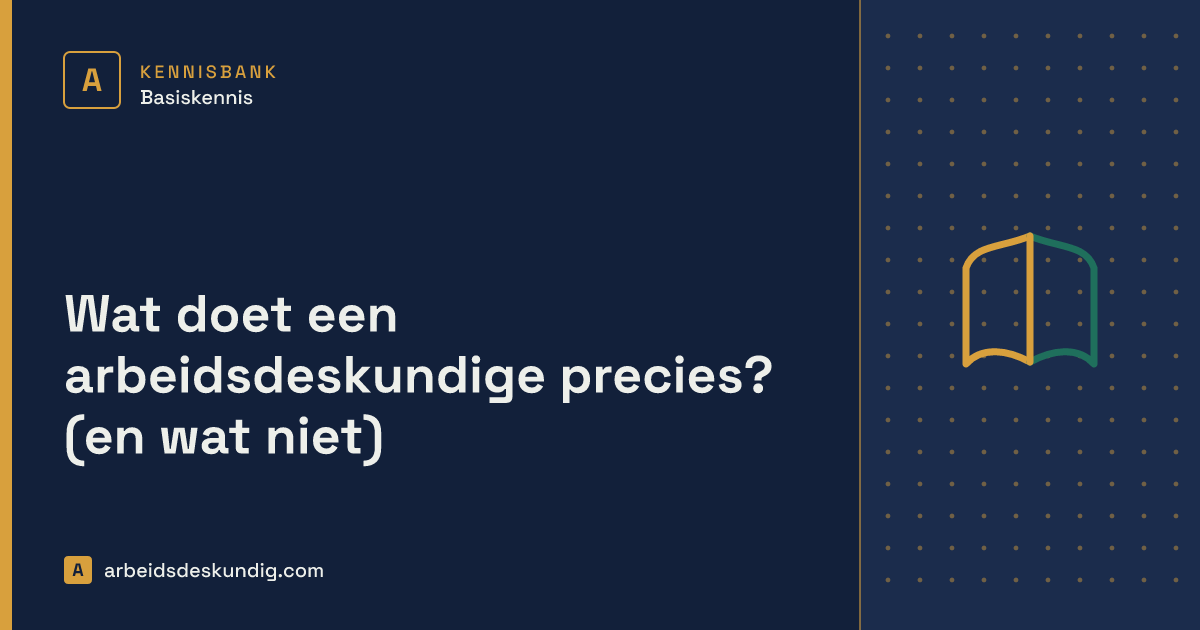
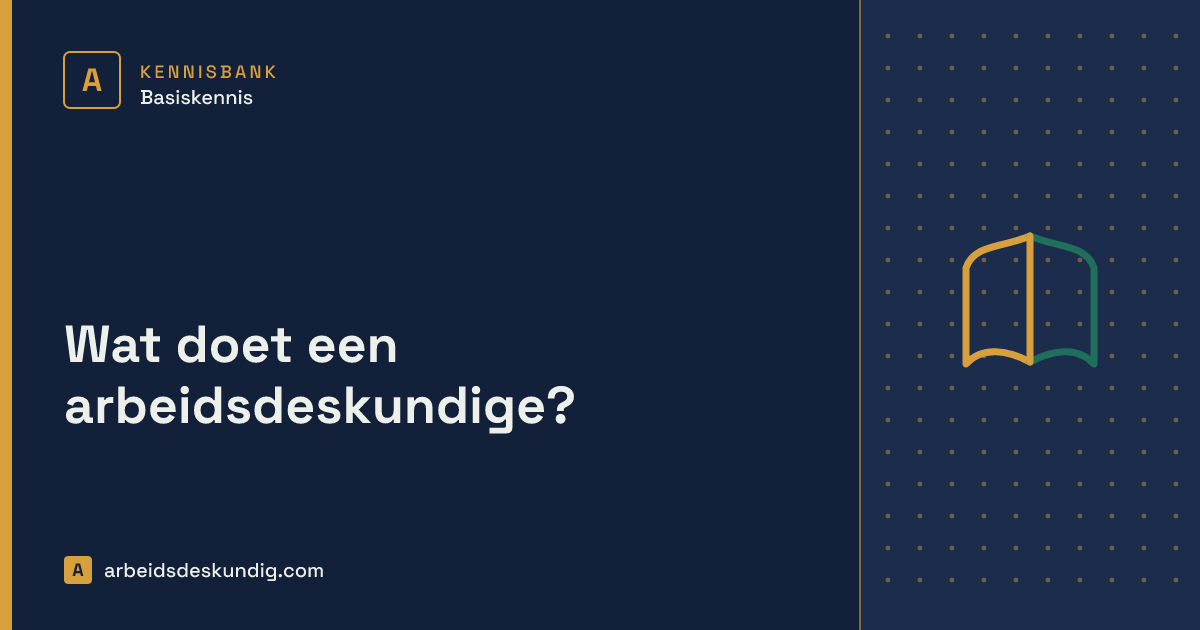
Sharpen what an arbeidsdeskundige does for first-time readers.
Lead with a citable answer, the report and spoor 1 or 2, the difference with UWV, and how the conversation goes, and set dateModified to the day of the edit.

Changed region(s): [[0.0308, 0.4524, 0.6475, 0.754]]

diff --git a/public/index.html b/public/index.html
@@ -3009,7 +3009,7 @@ try{ if(localStorage.getItem('cookie_consent') === null) document.body.classList
     { tag:"Casussen", title:"Casus: duidelijkheid over verantwoordelijkheid bij langdurig verzuim van een uitzendkracht", seoTitle:"Casus: verzuim van een uitzendkracht | Arbeidsdeskundig.com", slug:"casus-uitzend", read:"2 min", meta:"Praktijkcasus: hoe een arbeidsdeskundig onderzoek duidelijkheid bracht over verantwoordelijkheden bij een langdurig zieke uitzendkracht.", kernpunten:["Uitgangssituatie: onduidelijkheid tussen uitzendbureau en inlener","Oplossing: formele werkgever en inlener scherp uitgevraagd","Resultaat: duidelijk re-integratieplan zonder discussie"] },
     { tag:"Casussen", title:"Casus: eigenrisicodrager beperkt premie-impact dankzij tijdig onderzoek", seoTitle:"Casus: premie-impact eigenrisicodrager | Arbeidsdeskundig.com", slug:"casus-erd", read:"2 min", meta:"Praktijkcasus: hoe een eigenrisicodrager WGA de premie-impact beperkte door tijdig een arbeidsdeskundig onderzoek te laten uitvoeren.", kernpunten:["Uitgangssituatie: eigenrisicodrager met naderend WGA-risico","Oplossing: tijdig onderzoek gericht op reductie uitkeringspercentage","Resultaat: beperkte impact op de gedifferentieerde premie"] },
 
-    { tag:"Basiskennis", title:"Wat doet een arbeidsdeskundige precies? (en wat niet)", seoTitle:"Wat doet een arbeidsdeskundige? | Arbeidsdeskundig.com", slug:"wat-doet-arbeidsdeskundige", read:"5 min", meta:"Een arbeidsdeskundige beoordeelt wat iemand nog kan werken. Geen diagnose, geen casemanagement. Verschil met bedrijfsarts, verzekeringsarts en casemanager.", kernpunten:["Beoordeelt wat iemand nog kán werken, niet wat medisch mankeert","Stelt geen diagnose en begeleidt geen re-integratieproces","Verschilt van bedrijfsarts, verzekeringsarts én casemanager","Geregistreerd via het SRA; rapport bruikbaar richting UWV"], faq:[["Wat is het verschil tussen een arbeidsdeskundige en een bedrijfsarts?","De bedrijfsarts beoordeelt de medische situatie en stelt de FML op. De arbeidsdeskundige vertaalt die belastbaarheid naar concrete arbeidsmogelijkheden: eigen werk, ander werk bij dezelfde werkgever, of werk elders."],["Stelt een arbeidsdeskundige een diagnose?","Nee. Een arbeidsdeskundige stelt geen diagnose, schrijft geen behandeling voor en maakt geen Functionele Mogelijkhedenlijst. Dat is het terrein van de bedrijfsarts of verzekeringsarts."],["Is een arbeidsdeskundige hetzelfde als een casemanager?","Nee. De casemanager bewaakt termijnen en het proces. De arbeidsdeskundige oordeelt inhoudelijk over wat iemand nog kan werken. Dat zijn gescheiden rollen."],["Wanneer heb je een arbeidsdeskundige nodig?","Vaak rond de eerstejaars-evaluatie, bij twijfel over spoor 1 of spoor 2, bij een WIA-aanvraag, of tijdens de WGA of Ziektewet. Werkgevers én werknemers kunnen het onderzoek (laten) aanvragen."]] },
+    { tag:"Basiskennis", title:"Wat doet een arbeidsdeskundige?", seoTitle:"Wat doet een arbeidsdeskundige? | Arbeidsdeskundig.com", slug:"wat-doet-arbeidsdeskundige", read:"6 min", meta:"Wat doet een arbeidsdeskundige? Je krijgt een rapport over welk werk nog past, spoor 1 of 2. Geen diagnose. Voor werknemer en HR bij de eerste kennismaking.", kernpunten:["Een arbeidsdeskundige bekijkt welk werk nog past bij wat je aankunt, niet wat je medisch mankeert", "Je krijgt een rapport met een advies voor spoor 1 of spoor 2", "De arbeidsdeskundige van je werkgever is een andere persoon dan die van UWV", "Het onderzoek is geen afvinklijst: het verbetert de communicatie en brengt een vastgelopen dossier in beweging"], faq:[["Stelt een arbeidsdeskundige een diagnose?", "Nee. De bedrijfsarts beoordeelt de medische situatie en legt de belastbaarheid vast in een FML of een IZP. De arbeidsdeskundige neemt dat als gegeven en vertaalt het naar werk. Geen diagnose, geen behandeling, geen beslissing over een uitkering."], ["Wanneer krijg je als werknemer voor het eerst met een arbeidsdeskundige te maken?", "Meestal als je langdurig ziek bent en de vraag is welk werk nog past. Dat is vaak rond week 42 tot 52, soms eerder. Je werkgever of de arbodienst nodigt je uit. Je kunt ook zelf om een onderzoek vragen."], ["Wat krijg je van de arbeidsdeskundige na het gesprek?", "Een rapport. Daarin staat welk werk nog past, en een advies voor spoor 1 (eigen werk of ander werk bij je werkgever) of spoor 2 (werk bij een andere werkgever). Het rapport is geen diagnose en geen WIA-beslissing."], ["Beslist de arbeidsdeskundige van je werkgever over je WIA-uitkering?", "Nee. Die persoon werkt tijdens de loondoorbetaling en schrijft het rapport voor het re-integratiedossier. Bij de WIA-beoordeling kijkt een arbeidsdeskundige van UWV, meestal als je nog kunt werken, naar opleiding, ervaring en mogelijkheden. UWV schrijft dat die arbeidsdeskundige ook het arbeidsongeschiktheidspercentage bepaalt. Dat is een andere persoon."], ["Begeleidt een arbeidsdeskundige alleen mensen die makkelijk in de omgang zijn?", "Nee. Een goede arbeidsdeskundige luistert echt, ook als er meer achter iemand zit dan de eerste zin laat zien. De begeleiding geldt voor iedereen, niet alleen voor wie het gesprek makkelijk maakt."]] },
     { tag:"Loonwaarde", title:"Loonwaardeonderzoek: wat is het en wanneer is het nodig?", seoTitle:"Wat is een loonwaardeonderzoek? | Arbeidsdeskundig.com", slug:"loonwaardeonderzoek", read:"2 min", meta:"Wat is een loonwaardeonderzoek, hoe verschilt dit van een arbeidsdeskundig onderzoek, en wanneer heb je het nodig?", kernpunten:["Loonwaarde = productiviteit van een werknemer t.o.v. het gangbare loon in die functie","Vaak onderdeel van een breder arbeidsdeskundig onderzoek","Cruciaal bij loonkostensubsidie en WGA-uitkeringspercentage"], faq:[["Wie stelt de loonwaarde vast?","Een gecertificeerd loonwaardedeskundige, vaak in combinatie met het arbeidsdeskundig onderzoek."],["Hoe vaak moet loonwaarde opnieuw worden vastgesteld?","Bij wijzigingen in functie, uren of belastbaarheid, en periodiek bij langlopende trajecten."]] },
     { tag:"Deskundigenoordeel", title:"Deskundigenoordeel aanvragen bij UWV: hoe werkt dat?", seoTitle:"Deskundigenoordeel aanvragen bij UWV | Arbeidsdeskundig.com", slug:"deskundigenoordeel", read:"2 min", meta:"Een deskundigenoordeel bij UWV aanvragen: wanneer kan dat, wat kost het, en wat kun je ermee in een Poortwachter-traject?", kernpunten:["Objectief tweede oordeel bij twijfel of discussie","Aan te vragen door zowel werkgever als werknemer","Kan een vastgelopen re-integratietraject weer vlottrekken"], faq:[["Wat kost een deskundigenoordeel?","UWV rekent een vast bedrag per aanvraag; check de actuele tarieven op uwv.nl."],["Is een deskundigenoordeel bindend?","Niet juridisch bindend, maar weegt zwaar mee bij een eventuele WIA-beoordeling of rechtszaak."]] },
     { tag:"Loondoorbetaling", title:"Wet Poortwachter tijdlijn: alle stappen en termijnen op een rij", seoTitle:"Wet Poortwachter tijdlijn | Arbeidsdeskundig.com", slug:"poortwachter-tijdlijn", read:"2 min", meta:"De volledige Wet Poortwachter-tijdlijn: van ziekmelding tot WIA-aanvraag, met alle wettelijke termijnen op een rij.", kernpunten:["Week 6: probleemanalyse door de bedrijfsarts","Week 42-52: eerstejaars-evaluatie","Week 91: WIA-aanvraag voorbereiden, week 104: einde wachttijd"], faq:[["Wat gebeurt er als een termijn wordt gemist?","Dit kan leiden tot een loonsanctie: een verlenging van de loondoorbetalingsplicht met maximaal een jaar."],["Gelden deze termijnen ook bij de Ziektewet?","Ja, de Wet Poortwachter-termijnen lopen ook door bij Ziektewet-dossiers."]] },
@@ -3655,56 +3655,40 @@ whk: `
 <p>Voor eigenrisicodragers geldt vaker dan voor publiek verzekerde werkgevers dat het effect van vroege actie direct voelbaar is, er zit geen omweg via een collectieve premie tussen de actie en het resultaat. Dat maakt tijdige inzet bij ERD-organisaties nog net iets urgenter.</p><p style="margin-top:14px;">Wil je weten wat eigenrisicodragerschap voor jouw organisatie kan betekenen? <a class="blog-link" href="/offerte-aanvragen" onclick="event.preventDefault(); setView('offerte')">Vraag een offerte aan</a>.</p>`,
 
 "wat-doet-arbeidsdeskundige": `
-<h2>Wat doet een arbeidsdeskundige?</h2>
-<p>Een arbeidsdeskundige beoordeelt objectief wat iemand met gezondheidsklachten nog wél kan werken. Geen medische diagnose, maar een arbeidskundige vertaling: past het eigen werk nog, is ander werk bij dezelfde werkgever mogelijk, of is werk elders nodig? Het resultaat is een onafhankelijk rapport dat werkgever, werknemer én UWV kunnen gebruiken.</p>
-<h3>Welke vragen beantwoordt een arbeidsdeskundig onderzoek?</h3>
-<p>In de praktijk draait het onderzoek om een beperkt aantal, maar zware vragen:</p>
+<p>Een arbeidsdeskundige bekijkt welk werk nog past bij wat je aankunt. Je krijgt een rapport met een advies: eigen werk of ander werk bij je werkgever (spoor 1), of werk bij een andere werkgever (spoor 2). De arbeidsdeskundige stelt geen diagnose en beslist niet over een uitkering. Voor jou als werknemer of als HR is het een gesprek over werk, niet een medisch onderzoek.</p>
+<p>Wil je dit in jouw dossier laten doen, of eerst een vraag stellen? <a class="blog-link" href="/aanmelden" onclick="event.preventDefault(); setView('aanmelden')">Meld een onderzoek aan</a>, of <a class="blog-link" href="mailto:info@arbeidsdeskundig.com">stel je vraag</a>.</p>
+<p style="margin-top:16px;"><a class="btn-primary" href="/aanmelden" onclick="event.preventDefault(); setView('aanmelden')">Onderzoek aanmelden</a> <a class="btn-ghost" href="mailto:info@arbeidsdeskundig.com" style="margin-left:8px;">Stel je vraag</a></p>
+
+<h2>Wanneer krijg je met een arbeidsdeskundige te maken?</h2>
+<p>Je komt een arbeidsdeskundige meestal tegen als langdurig verzuim de vraag oproept welk werk nog past. Dat is vaak rond week 42 tot 52, soms eerder als die vraag al vastligt en er een beeld is van wat je aankunt. Als werknemer word je uitgenodigd door je werkgever of de arbodienst. Je kunt ook zelf om een onderzoek vragen. Als HR schakel je een arbeidsdeskundige in als terugkeer in het eigen werk onzeker is, of als het dossier stilvalt en je een onafhankelijk beeld nodig hebt.</p>
+<p>Twee situaties komen vaak terug. De werknemer zit thuis en weet niet wat het gesprek gaat brengen. HR heeft een dossier dat niet vooruitkomt, omdat iedereen iets anders verwacht van het eigen werk. In beide gevallen beantwoordt de arbeidsdeskundige de vraag over werk. Het is geen oordeel over of je je best doet.</p>
+<p>Het volledige kader, van de vier kernvragen tot het rapport, staat in de gids over een <a class="blog-link" href="/kennisbank/arbeidsdeskundig-onderzoek-gids" onclick="event.preventDefault(); openArtikel('arbeidsdeskundig-onderzoek-gids')">arbeidsdeskundig onderzoek</a>.</p>
+
+<h2>Wat krijg je van de arbeidsdeskundige?</h2>
+<p>Je krijgt een rapport. Daarin staat welk werk nog past, en een advies voor de vervolgstap. Spoor 1 is eigen werk, eventueel aangepast, of ander werk bij dezelfde werkgever. Spoor 2 is werk bij een andere werkgever. In het rapport staat geen diagnose, geen behandelplan en geen beslissing van UWV.</p>
+<p>Een arbeidsdeskundig onderzoek is daarbij geen afvinklijst. Het verbetert de communicatie tussen werkgever en werknemer, en het brengt beweging in een dossier dat vastzit. Beide partijen kijken naar hetzelfde werk, in plaats van langs elkaar heen te praten.</p>
+<p>Hoe de uitvoering van zo'n onderzoek verloopt, staat op <a href="https://matchvermogen.nl/arbeidsdeskundig-onderzoek/" target="_blank" rel="noopener">matchvermogen.nl</a>. Wat er sectie voor sectie in het rapport staat, lees je in <a class="blog-link" href="/kennisbank/arbeidsdeskundig-rapport-voorbeeld" onclick="event.preventDefault(); openArtikel('arbeidsdeskundig-rapport-voorbeeld')">wat er in een arbeidsdeskundig rapport staat</a>.</p>
+
+<h2>Wat is het verschil tussen de arbeidsdeskundige van UWV en die van je werkgever?</h2>
+<p>De arbeidsdeskundige die je werkgever inschakelt, werkt tijdens de periode van loondoorbetaling. Die persoon weegt welk werk nog past en schrijft het rapport voor het re-integratiedossier. De arbeidsdeskundige van UWV kom je later tegen, bij de WIA-beoordeling. <a href="https://www.uwv.nl/nl/wia/wia-beoordeling" target="_blank" rel="noopener">UWV</a> schrijft dat je, als je nu of in de toekomst nog kunt werken, meestal een gesprek krijgt met die arbeidsdeskundige. Het gesprek gaat over opleiding, ervaring en mogelijkheden om te werken. UWV schrijft ook dat die arbeidsdeskundige het arbeidsongeschiktheidspercentage bepaalt. Dat is een andere persoon en een andere beslissing. Het rapport uit het dienstverband kan in het re-integratieverslag zitten dat UWV leest. Het vervangt de beoordeling van UWV niet.</p>
+<p>De langere uitleg van dit verschil staat in de <a class="blog-link" href="/kennisbank/arbeidsdeskundig-onderzoek-gids" onclick="event.preventDefault(); openArtikel('arbeidsdeskundig-onderzoek-gids')">gids</a>.</p>
+
+<h2>Hoe verloopt een gesprek met de arbeidsdeskundige?</h2>
+<p>Meestal spreekt de arbeidsdeskundige jou en je werkgever apart. Het gesprek met jou duurt meestal ongeveer een uur tot anderhalf uur. Daarna volgt vaak een korter gesprek met beiden, om feiten te checken. Het gaat over je werk en een gewone dag, niet over een diagnose.</p>
+<p>Een goede arbeidsdeskundige luistert echt. Er zit soms veel meer achter iemand dan de eerste zin laat zien. De begeleiding geldt voor iedereen, niet alleen voor wie makkelijk in de omgang is.</p>
+<p>Wat je meeneemt, welke vragen je kunt verwachten en wat je doet als je niet bent uitgenodigd, staat in <a class="blog-link" href="/kennisbank/voorbereiden-gesprek-arbeidsdeskundige" onclick="event.preventDefault(); openArtikel('voorbereiden-gesprek-arbeidsdeskundige')">het gesprek met de arbeidsdeskundige voorbereiden</a>.</p>
+
+<h2>Wat doet een arbeidsdeskundige niet?</h2>
 <ul>
-<li>Kan de werknemer het <strong>eigen werk</strong> nog doen, eventueel met aanpassingen (spoor 1a)?</li>
-<li>Is een <strong>andere functie bij dezelfde werkgever</strong> haalbaar (spoor 1b)?</li>
-<li>Is <a class="blog-link" onclick="openArtikel('spoor2')">spoor 2</a> nodig: passend werk bij een andere werkgever?</li>
-<li>Welk werk is <a class="blog-link" onclick="openArtikel('passende-arbeid')">passend</a>, gegeven opleiding, ervaring en belastbaarheid?</li>
+<li><strong>Geen diagnose en geen behandeling.</strong> De bedrijfsarts beoordeelt de medische situatie. De arbeidsdeskundige neemt de belastbaarheid als gegeven.</li>
+<li><strong>Geen FML of IZP.</strong> Die lijst maakt de arts. De arbeidsdeskundige zet de lijst naast het werk.</li>
+<li><strong>Geen casemanagement.</strong> Termijnen en het plan van aanpak bewaakt de casemanager.</li>
+<li><strong>Geen uitkeringsbeslissing en geen ontslagadvies.</strong> UWV beslist over de WIA. Het rapport gaat over werk.</li>
 </ul>
-<p>De medische basis daarvoor is de <a class="blog-link" onclick="openArtikel('fml-uitleg')">Functionele Mogelijkhedenlijst (FML)</a> van de bedrijfsarts. De arbeidsdeskundige stelt die FML niet zelf op, maar toetst de daarin vastgelegde mogelijkheden aan echte functie-eisen, in de <a href="https://matchvermogen.nl/arbeidsdeskundig-onderzoek/" target="_blank" rel="noopener">uitvoering van het arbeidsdeskundig onderzoek</a>: voorbereiding op het advies van de bedrijfsarts, en gesprekken met werknemer en werkgever.</p>
-<h3>Wat staat er in het rapport?</h3>
-<p>Een arbeidsdeskundig rapport volgt een vaste opbouw: vraagstelling, bronnen, analyse van functie versus belastbaarheid, conclusie en een concreet vervolgadvies. Geen medische diagnose, wél een onderbouwing die UWV kan toetsen. Zie <a class="blog-link" href="/kennisbank/arbeidsdeskundig-rapport-voorbeeld" onclick="event.preventDefault(); openArtikel('arbeidsdeskundig-rapport-voorbeeld')">wat zit er in een arbeidsdeskundig rapport</a> voor de sectie-voor-sectie-opbouw.</p>
-
-<h2>Wat doet een arbeidsdeskundige níet?</h2>
-<p>De rol is scherp begrensd. Dat is geen tekortkoming, maar de reden dat het advies onafhankelijk blijft en richting UWV standhoudt.</p>
-<ul>
-<li><strong>Geen diagnose.</strong> De arbeidsdeskundige beoordeelt niet wát iemand mankeert, alleen wat dat functioneel betekent voor werk.</li>
-<li><strong>Geen behandeling of therapie.</strong> Geen voorschriften, geen herstelbegeleiding, geen coaching.</li>
-<li><strong>Geen FML.</strong> De Functionele Mogelijkhedenlijst is voorbehouden aan de bedrijfsarts of verzekeringsarts.</li>
-<li><strong>Geen casemanagement.</strong> Termijnen, Plan van Aanpak en procesbewaking horen bij de casemanager, niet bij het inhoudelijke oordeel.</li>
-<li><strong>Geen uitkeringsbeslissing.</strong> UWV (verzekeringsarts én arbeidsdeskundige van UWV) beslist over WIA, WGA of IVA.</li>
-<li><strong>Geen ontslagadvies.</strong> Het rapport gaat over arbeidsmogelijkheden, niet over het beëindigen van een dienstverband.</li>
-</ul>
-<h3>Waarom die grens zo strikt is</h3>
-<p>Wie diagnose, proces én arbeidskundig oordeel in één persoon combineert, maakt het dossier kwetsbaar. UWV, de AVG en de beroepscode verwachten juist scheiding: medisch bij de arts, proces bij de casemanager, arbeidskundig bij de arbeidsdeskundige. De werkgever ontvangt bovendien nooit de diagnose, alleen de functionele gevolgen, zie ook <a class="blog-link" onclick="openArtikel('avg-arbeidsdeskundig')">AVG en arbeidsdeskundig onderzoek</a>.</p>
-
-<h2>Arbeidsdeskundige versus bedrijfsarts, verzekeringsarts en casemanager</h2>
-<p>Deze vier rollen komen in vrijwel elk langdurig verzuimdossier voor. Ze klinken nabij, maar doen iets anders. Wie je wanneer nodig hebt, hangt af van de vraag die voorligt.</p>
-<h3>Wat is het verschil met de bedrijfsarts?</h3>
-<p>De <strong>bedrijfsarts</strong> beoordeelt de medische situatie, volgt het herstel en stelt de FML op. De <strong>arbeidsdeskundige</strong> neemt die FML als gegeven en vertaalt die naar werk: eigen functie, andere functie intern, of werk elders. Kort: de bedrijfsarts zegt wat iemand mag en kan qua belasting; de arbeidsdeskundige zegt welk werk daarbij past.</p>
-<h3>Wat is het verschil met de verzekeringsarts?</h3>
-<p>De <strong>verzekeringsarts</strong> werkt bij of in opdracht van UWV (of een verzekeraar) en beoordeelt medisch of iemand recht heeft op een uitkering, en in welke mate. Dat is een claimbeoordeling, geen re-integratieadvies. De arbeidsdeskundige in een Poortwachter- of WGA-onderzoek werkt eerder in het traject, onafhankelijk van die UWV-beslissing, en onderbouwt wat er op de arbeidsmarkt nog mogelijk is. Bij de WIA-beoordeling heeft UWV overigens óók een eigen arbeidsdeskundige; dat is een andere persoon dan de arbeidsdeskundige die het re-integratiedossier heeft onderzocht.</p>
-<h3>Wat is het verschil met de casemanager?</h3>
-<p>De <strong>casemanager</strong> (vaak bij de arbodienst, verzuimverzekeraar of intern bij HR) bewaakt het proces: zijn de <a class="blog-link" onclick="openArtikel('poortwachter-tijdlijn')">Poortwachter-termijnen</a> gehaald, is het Plan van Aanpak actueel, wie moet wanneer wat doen? De casemanager oordeelt niet over medische belastbaarheid en niet over concrete functiemogelijkheden. Bij twijfel over het proces: casemanager. Bij twijfel over wat iemand nog kan werken: arbeidsdeskundige.</p>
-<p>Een uitgebreidere vergelijking van de drie meest verwarde rollen staat in <a class="blog-link" onclick="openArtikel('arbeidsdeskundige-vs-bedrijfsarts-casemanager')">arbeidsdeskundige, bedrijfsarts of casemanager: wie doet wat?</a>.</p>
-<h3>En de loonwaardedeskundige?</h3>
-<p>Soms volgt nog een vierde, specialistische stap: de loonwaardedeskundige kwantificeert de resterende productiviteit in een percentage. Dat is vaak een onderdeel van, of vervolg op, het arbeidsdeskundig onderzoek, relevant bij WGA-uitkeringspercentage of loonkostensubsidie. Zie <a class="blog-link" onclick="openArtikel('loonwaardeonderzoek')">loonwaardeonderzoek: wat is het en wanneer is het nodig?</a></p>
-
-<h2>Wanneer schakel je een arbeidsdeskundige in?</h2>
-<p>Wettelijk komt het onderzoek vaak in beeld rond de <a class="blog-link" onclick="openArtikel('jaarsevaluatie')">eerstejaars-evaluatie</a>. In de praktijk is eerder starten vaak verstandiger: hoe eerder duidelijk is of spoor 1 haalbaar blijft, hoe meer tijd er overblijft voor een eventueel spoor 2 binnen de 104 weken. De opdrachtbeslissing, week 42 tot 52 versus eerder, en wat er misgaat als je wacht, staat in <a class="blog-link" href="/kennisbank/arbeidsdeskundig-onderzoek-na-1-jaar-ziekte" onclick="event.preventDefault(); openArtikel('arbeidsdeskundig-onderzoek-na-1-jaar-ziekte')">wanneer een arbeidsdeskundig onderzoek na 1 jaar ziekte</a>.</p>
-<h3>Als werkgever</h3>
-<p>Schakel een arbeidsdeskundige in bij twijfel over terugkeer in eigen werk, bij een naderende <a class="blog-link" onclick="openArtikel('wia-aanvraag')">WIA-aanvraag</a>, tijdens de WGA, bij de Ziektewet, of als het dossier vastloopt en je een onafhankelijke onderbouwing nodig hebt richting UWV. Het rapport is een van de sterkste stukken in het re-integratieverslag.</p>
-<h3>Als werknemer</h3>
-<p>Ook werknemers kunnen zelf het initiatief nemen, bijvoorbeeld bij onenigheid over het traject. Lees <a class="blog-link" onclick="openArtikel('werknemer-zelf-aanvragen')">of je als werknemer zelf een onderzoek kunt aanvragen</a>. Bij blijvend verschil van inzicht is een <a class="blog-link" onclick="openArtikel('deskundigenoordeel')">deskundigenoordeel bij UWV</a> de formele volgende stap.</p>
-
-<h2>Moet een arbeidsdeskundige geregistreerd zijn?</h2>
-<p>Voor een rapport dat UWV serieus neemt: ja. Geregistreerde arbeidsdeskundigen staan in het Register Arbeidsdeskundigen (SRA), werken volgens een beroepscode en houden vakbekwaamheid bij via permanente educatie. Onafhankelijkheid hoort daarbij: het oordeel volgt de feiten, ongeacht of de werkgever of de werknemer de opdrachtgever is.</p>
-<p>Het volledige beeld van een <a class="blog-link" href="/kennisbank/arbeidsdeskundig-onderzoek-gids" onclick="event.preventDefault(); openArtikel('arbeidsdeskundig-onderzoek-gids')">arbeidsdeskundig onderzoek</a>, van de vier kernvragen tot het rapport, staat in de gids.</p>
-<p>arbeidsdeskundig.com is onderdeel van <a class="blog-link" href="/over-ons" onclick="event.preventDefault(); setView('over')">Matchvermogen B.V.</a>: geregistreerde arbeidsdeskundigen, online of fysiek, door heel Nederland. Twijfel je of een onderzoek in jouw dossier zinvol is? <a class="blog-link" href="/offerte-aanvragen" onclick="event.preventDefault(); setView('offerte')">Vraag vrijblijvend een offerte aan</a> of <a class="blog-link" href="/aanmelden" onclick="event.preventDefault(); setView('aanmelden')">meld een onderzoek aan</a> reactie binnen 24 uur.</p>`,
+<p>Wie diagnose, proces en het oordeel over werk in één persoon zoekt, maakt het dossier kwetsbaar. De werkgever hoort de functionele gevolgen, niet de medische oorzaak.</p>
+<p style="margin-top:16px;"><a class="btn-primary" href="/aanmelden" onclick="event.preventDefault(); setView('aanmelden')">Onderzoek aanmelden</a> <a class="btn-ghost" href="mailto:info@arbeidsdeskundig.com" style="margin-left:8px;">Stel je vraag</a></p>
+<p>Verder: <a class="blog-link" href="/kennisbank/arbeidsdeskundig-onderzoek-gids" onclick="event.preventDefault(); openArtikel('arbeidsdeskundig-onderzoek-gids')">gids arbeidsdeskundig onderzoek</a> · <a class="blog-link" href="/kennisbank/voorbereiden-gesprek-arbeidsdeskundige" onclick="event.preventDefault(); openArtikel('voorbereiden-gesprek-arbeidsdeskundige')">gesprek voorbereiden</a> · <a class="blog-link" href="/kennisbank/arbeidsdeskundige-vs-bedrijfsarts-casemanager" onclick="event.preventDefault(); openArtikel('arbeidsdeskundige-vs-bedrijfsarts-casemanager')">verschil met bedrijfsarts en casemanager</a> · <a href="https://matchvermogen.nl/arbeidsdeskundig-onderzoek/" target="_blank" rel="noopener">uitvoering van het onderzoek</a></p>
+`,
 
 "loonwaardeonderzoek": `
 <h2>Wat is loonwaarde?</h2>

diff --git a/test/kennisbank-article.test.js b/test/kennisbank-article.test.js
@@ -2063,3 +2063,64 @@ describe('kennisbank article: vrijwillige verlenging loondoorbetaling', () => {
     });
 });
 
+const DOET_PATH = '/kennisbank/wat-doet-arbeidsdeskundige';
+const DOET_TITLE = 'Wat doet een arbeidsdeskundige? | Arbeidsdeskundig.com';
+const DOET_H1 = 'Wat doet een arbeidsdeskundige?';
+const DOET_META = 'Wat doet een arbeidsdeskundige? Je krijgt een rapport over welk werk nog past, spoor 1 of 2. Geen diagnose. Voor werknemer en HR bij de eerste kennismaking.';
+
+describe('kennisbank article: wat doet een arbeidsdeskundige', () => {
+    it('opent answer-first, met FAQ, bron en datum van vandaag', async () => {
+        const res = await fetch(base + DOET_PATH, GOOGLEBOT);
+        assert.equal(res.status, 200);
+        const html = await res.text();
+        assert.equal(html.match(/<title>([^<]+)<\/title>/)[1], DOET_TITLE);
+        assert.equal(html.match(/<meta name="description" content="([^"]*)">/)[1], DOET_META);
+        const h1s = html.match(/<h1\b[^>]*>[\s\S]*?<\/h1>/g) || [];
+        assert.equal(h1s.length, 1);
+        assert.match(h1s[0], /Wat doet een arbeidsdeskundige\?/);
+
+        const marker = 'id="artikel-body">';
+        const body = html.slice(html.indexOf(marker) + marker.length);
+        const article = body.slice(0, body.indexOf('</div>'));
+        const first = article.replace(/<[^>]+>/g, ' ').replace(/\s+/g, ' ').trim().split(' ').slice(0, 70).join(' ');
+        assert.match(first, /^Een arbeidsdeskundige bekijkt welk werk nog past/);
+        assert.match(article, /week 42 tot 52/);
+        assert.match(article, /geen afvinklijst/);
+        assert.match(article, /luistert echt/);
+        assert.match(article, /makkelijk in de omgang/);
+        assert.match(article, /href="\/kennisbank\/arbeidsdeskundig-onderzoek-gids"/);
+        assert.match(article, /href="\/kennisbank\/voorbereiden-gesprek-arbeidsdeskundige"/);
+        assert.match(article, /href="\/aanmelden"/);
+        assert.match(article, /mailto:info@arbeidsdeskundig\.com/);
+        assert.match(article, /https:\/\/matchvermogen\.nl\/arbeidsdeskundig-onderzoek\//);
+        assert.match(article, /https:\/\/www\.uwv\.nl\/nl\/wia\/wia-beoordeling/);
+        assert.doesNotMatch(article, /—/);
+        assert.doesNotMatch(article, /–/);
+        assert.doesNotMatch(article, /€/);
+        assert.doesNotMatch(article, /loonsanctie voorkomen/i);
+        assert.doesNotMatch(article, /eerstejaarsevaluatie/i);
+        assert.doesNotMatch(article, /loonkostensubsidie berekenen/i);
+        assert.doesNotMatch(article, /goedkoop/i);
+
+        const blocks = [];
+        const re = /<script type="application\/ld\+json">([\s\S]*?)<\/script>/g;
+        let m;
+        while ((m = re.exec(html))) blocks.push(JSON.parse(m[1]));
+        const articles = blocks.filter((b) => b['@type'] === 'Article');
+        const faqs = blocks.filter((b) => b['@type'] === 'FAQPage');
+        assert.equal(articles.length, 1);
+        assert.equal(articles[0].headline, DOET_H1);
+        assert.equal(articles[0].datePublished, '2026-09-01');
+        assert.equal(articles[0].dateModified, '2026-11-17');
+        assert.equal(articles[0].image.url, 'https://www.arbeidsdeskundig.com/assets/og/wat-doet-arbeidsdeskundige.png');
+        assert.equal(faqs.length, 1);
+        assert.ok(faqs[0].mainEntity.length >= 4 && faqs[0].mainEntity.length <= 6);
+        assert.ok(faqs[0].mainEntity.some((q) => /diagnose/i.test(q.name)));
+
+        const xml = await (await fetch(base + '/sitemap.xml')).text();
+        assert.match(xml, /<loc>https:\/\/www\.arbeidsdeskundig\.com\/kennisbank\/wat-doet-arbeidsdeskundige<\/loc><lastmod>2026-11-17<\/lastmod>/);
+        const llms = await (await fetch(base + '/llms.txt')).text();
+        assert.match(llms, /https:\/\/www\.arbeidsdeskundig\.com\/kennisbank\/wat-doet-arbeidsdeskundige/);
+    });
+});
+

diff --git a/test/seo-hidden-views.test.js b/test/seo-hidden-views.test.js
@@ -11,7 +11,7 @@ const INDEX_HTML = fs.readFileSync(path.join(__dirname, '..', 'public', 'index.h
 const VIEW_OPEN_RE = /<div class="(view(?: active)?)" id="(view-[^"]+)"( hidden)?>/g;
 
 const PROBLEM_PATHS = [
-    { path: '/kennisbank/wat-doet-arbeidsdeskundige', active: 'view-artikel', titleH1: /Wat doet een arbeidsdeskundige precies/ },
+    { path: '/kennisbank/wat-doet-arbeidsdeskundige', active: 'view-artikel', titleH1: /Wat doet een arbeidsdeskundige\?/ },
     { path: '/kennisbank/arbeidsdeskundig-onderzoek-gids', active: 'view-artikel', titleH1: /Arbeidsdeskundig onderzoek: wat het is, wanneer en hoe het werkt/ },
     { path: '/offerte-aanvragen', active: 'view-offerte', titleH1: /Vraag je offerte aan: vanaf €999,-/ },
     { path: '/aanmelden', active: 'view-aanmelden', titleH1: /Meld je onderzoek aan: vanaf €999,-/ },

diff --git a/test/seo-h1.test.js b/test/seo-h1.test.js
@@ -16,7 +16,7 @@ const ROUTES = [
     { path: '/voor/hr-adviseur', h1: 'Arbeidsdeskundig onderzoek voor HR-adviseurs' },
     {
         path: '/kennisbank/wat-doet-arbeidsdeskundige',
-        h1: 'Wat doet een arbeidsdeskundige precies? (en wat niet)',
+        h1: 'Wat doet een arbeidsdeskundige?',
         article: true,
     },
     {
